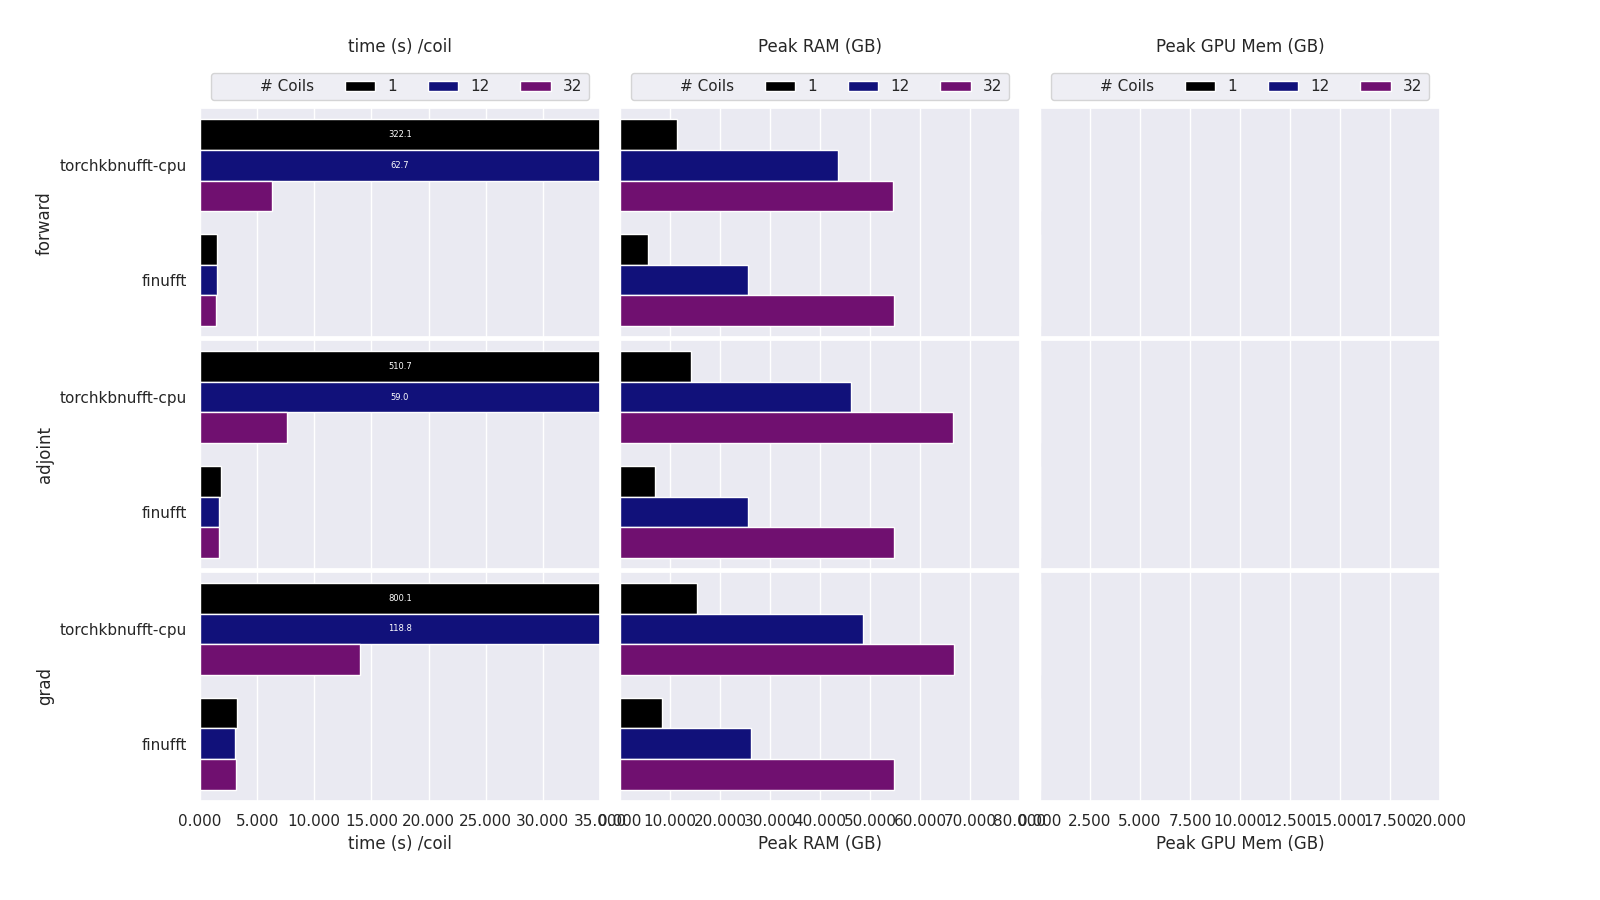
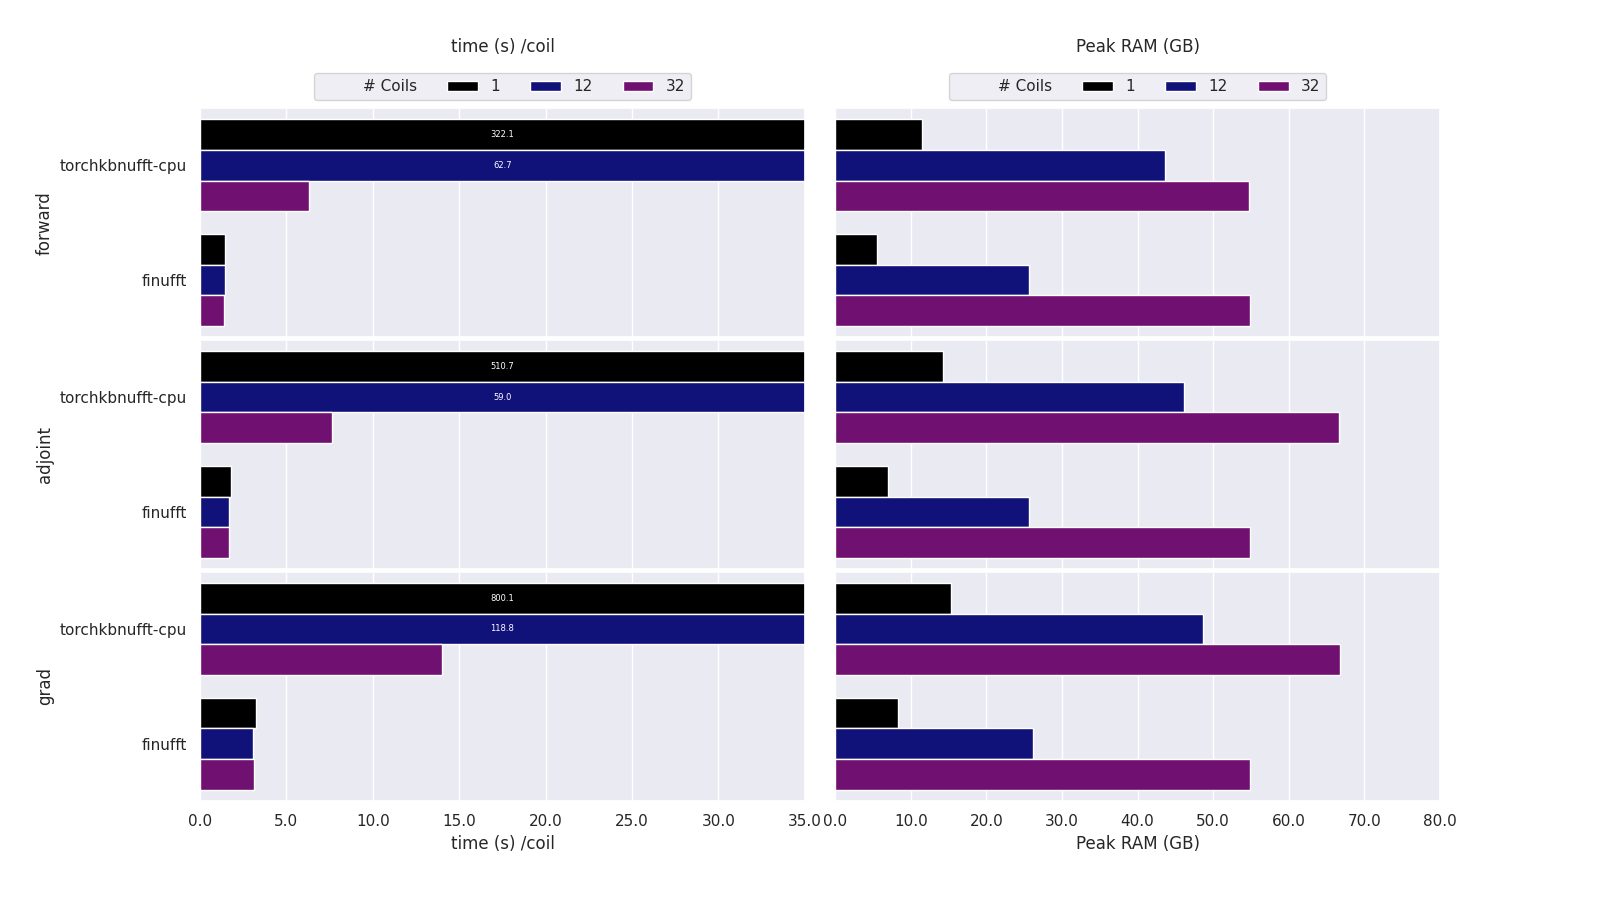
fix perf visu for gpu

diff --git a/30_perf_analysis.py b/30_perf_analysis.py
@@ -27,7 +27,7 @@ args = parser.parse_args()
 
 # Directory where benchmark result files are stored
 BENCHMARK_DIR = "./outputs"
-results_files = glob.glob(BENCHMARK_DIR + "/**/**/*.csv", recursive=True)
+results_files = glob.glob(BENCHMARK_DIR + "/CPU/**/*.csv", recursive=True)
 
 # Read and concatenate all CSV files into a single DataFrame
 df = pd.concat(map(pd.read_csv, results_files))
@@ -37,10 +37,6 @@ df["coil_time"] = df["run_time"] / df["n_coils"]
 df["coil_mem"] = df["mem_peak"] / df["n_coils"]
 df = df.sort_values(["backend"], ascending=False)
 
-# Initialize subplots
-fig, axs = plt.subplots(
-    3, 3, sharey=True, figsize=(16, 9), gridspec_kw=dict(hspace=0.01, wspace=0.05)
-)
 tasks = ["forward", "adjoint", "grad"]
 metrics = {
     "coil_time": "time (s) /coil",
@@ -48,17 +44,38 @@ metrics = {
     "gpu0_mem_GiB_peak": "Peak GPU Mem (GB)",
 }
 
+# Remove GPU memory metric if all values are zero
+if df["gpu0_mem_GiB_peak"].sum() == 0:
+    metrics.pop("gpu0_mem_GiB_peak")
+    num_metrics = 2
+else:
+    num_metrics = 3
+
+# Initialize subplots
+fig, axs = plt.subplots(
+    3,
+    num_metrics,
+    sharey=True,
+    figsize=(16, 9),
+    gridspec_kw=dict(hspace=0.01, wspace=0.05),
+)
+
 # Custom palette with specified colors
 custom_palette = {1: "black", 12: "darkblue", 32: "purple"}
 
-
 # Define x-axis limits for each metric
-xlims = {k: v for k, v in zip(metrics.keys(), [(0, 5), (0, 80), (0, 20)])}
+xlims = {
+    k: v
+    for k, v in zip(
+        metrics.keys(),
+        [(0, 35), (0, 80)] if num_metrics == 2 else [(0, 5), (0, 80), (0, 20)],
+    )
+}
 
 # Generate bar plots for each task and metric
 for row, task in zip(axs, tasks):
     ddf = df[df["task"] == task]
-    for ax, (k) in zip(row, metrics.keys()):
+    for ax, (k) in zip(row[:num_metrics], metrics.keys()):
         sns.barplot(
             ddf,
             x=k,
